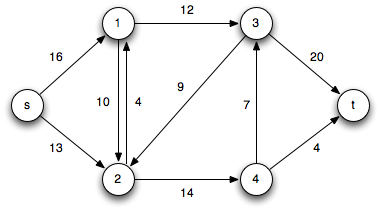
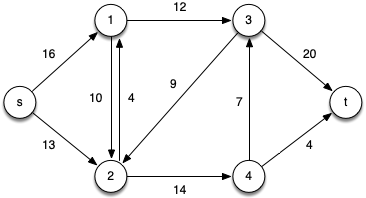
update max flow notes
update max flow notes

diff --git a/lectures/lecture25.md b/lectures/lecture25.md
@@ -35,6 +35,10 @@ Consider the following flow network
 
 > ![image](images/lecture25/MaxFlowexample.png)
 
+Initially we will remove the anti-parallel edges between vertices 1 and 2 by adding an intermediate vertex 1' and edges with the same capacities, i.e. *c*(1,1') = *c*(1',2) = *c*(1,2) = 10.
+
+> ![image](images/lecture25/MaxFlowexampleMod.png)
+
 Note that clearly \|*f* <sup>\*</sup>\| ≤ 24 (the smaller of the capacities leaving the source or entering the sink).
 
 *Iteration 1:* Choose the augmenting path *p*<sub>1</sub> = \< *s*, 1, 3, *t* \> which has *c*<sub>f</sub>(*p*<sub>1</sub>) = 12 (due to *c*(1,3)) giving the residual network
@@ -55,3 +59,20 @@ At this point there are no other augmenting paths (since vertex 3 is the only ve
 
 with maximal flow \|*f* <sup>\*</sup>\| = 19 + 4 = 23 (or 12 + 11 = 23).
 
+**Note** As we admit flow along an edge (*u*,*v*), we create *negative* flow along the reverse edge (*v*,*u*), i.e. the flow provides capacity for that edge.
+
+Consider the following example
+
+> ![image](images/lecture25/MaxFlowBack.png)
+
+Clearly we can see that the max flow is \|*f* <sup>\*</sup>\| = 2 since we could follow paths across the top (*p*<sub>1</sub> = \< *s*, 1, 2, *t* \>) and bottom (*p*<sub>2</sub> = \< *s*, 3, 4, *t* \>) of the graph. 
+
+*Iteration 1:* However, consider the following alternative initial augmenting path *p*<sub>1</sub> = \< *s*, 1, 4, *t* \> (which is valid since it also contains only 3 edges) which has *c*<sub>f</sub>(*p*<sub>1</sub>) = 1 giving the residual network
+
+> ![image](images/lecture25/MaxFlowBack1.png)
+  
+Notice that without the reverse edges, there is no augmenting path from *s* to *t*. However, because admitting flow produces capacity along the reversed edge (*4*, *1*), the residual graph contains augmenting path *p*<sub>2</sub> = \< *s*, 3, 4, 1, 2, *t* \> which also has *c*<sub>f</sub>(*p*<sub>1</sub>) = 1 giving the residual network
+
+> ![image](images/lecture25/MaxFlowBack2.png)
+
+Note this second augmenting path essentially restores the capacity in the original edge (*1*, *4*).
